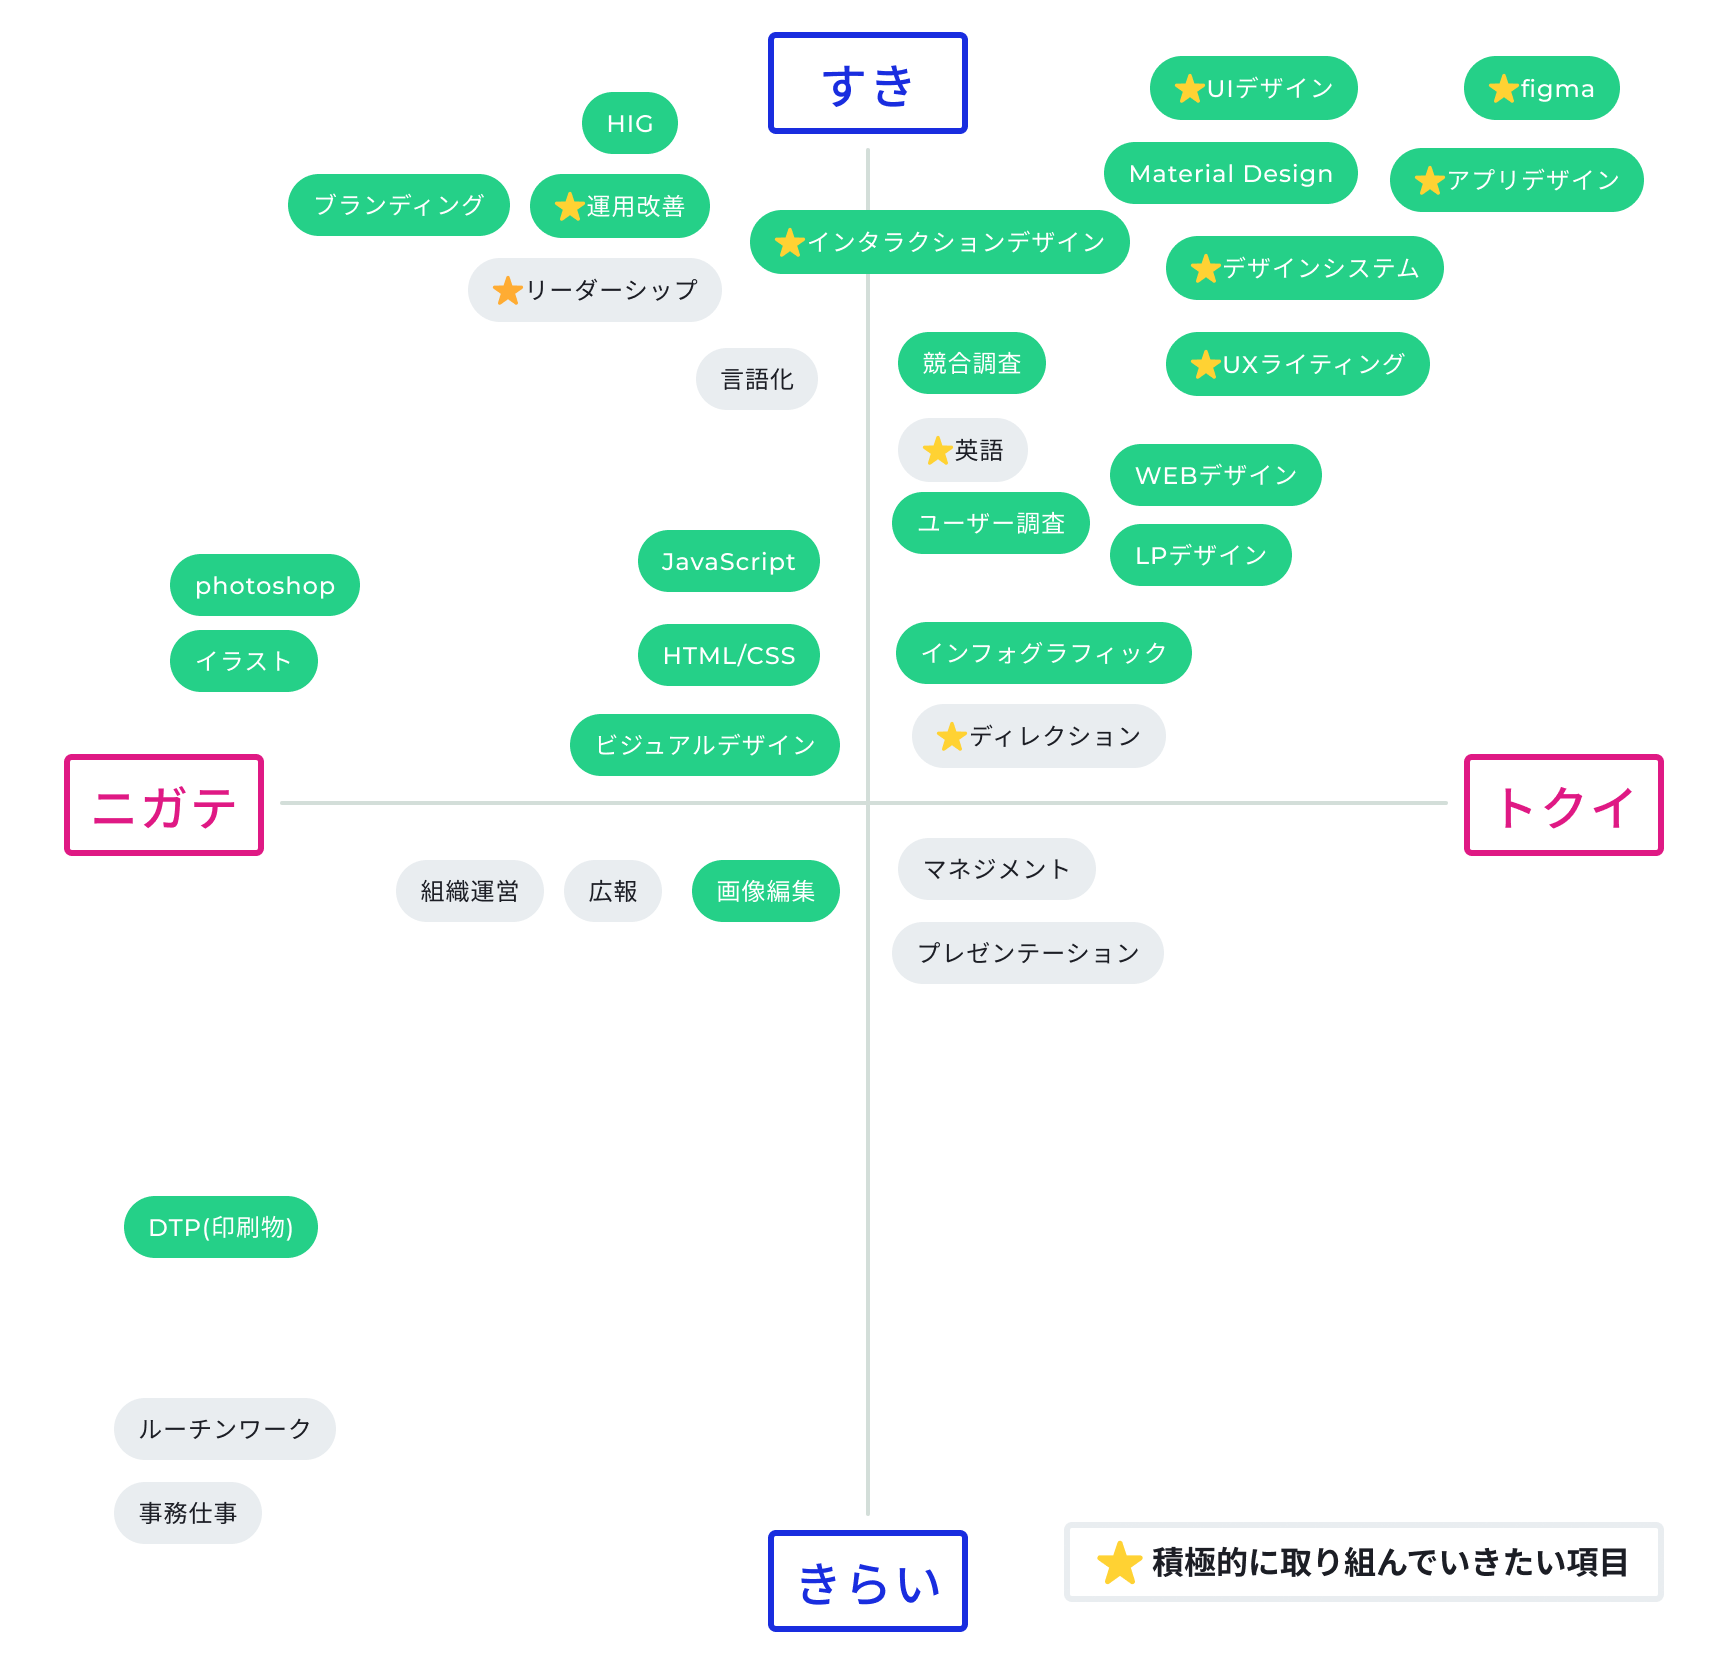
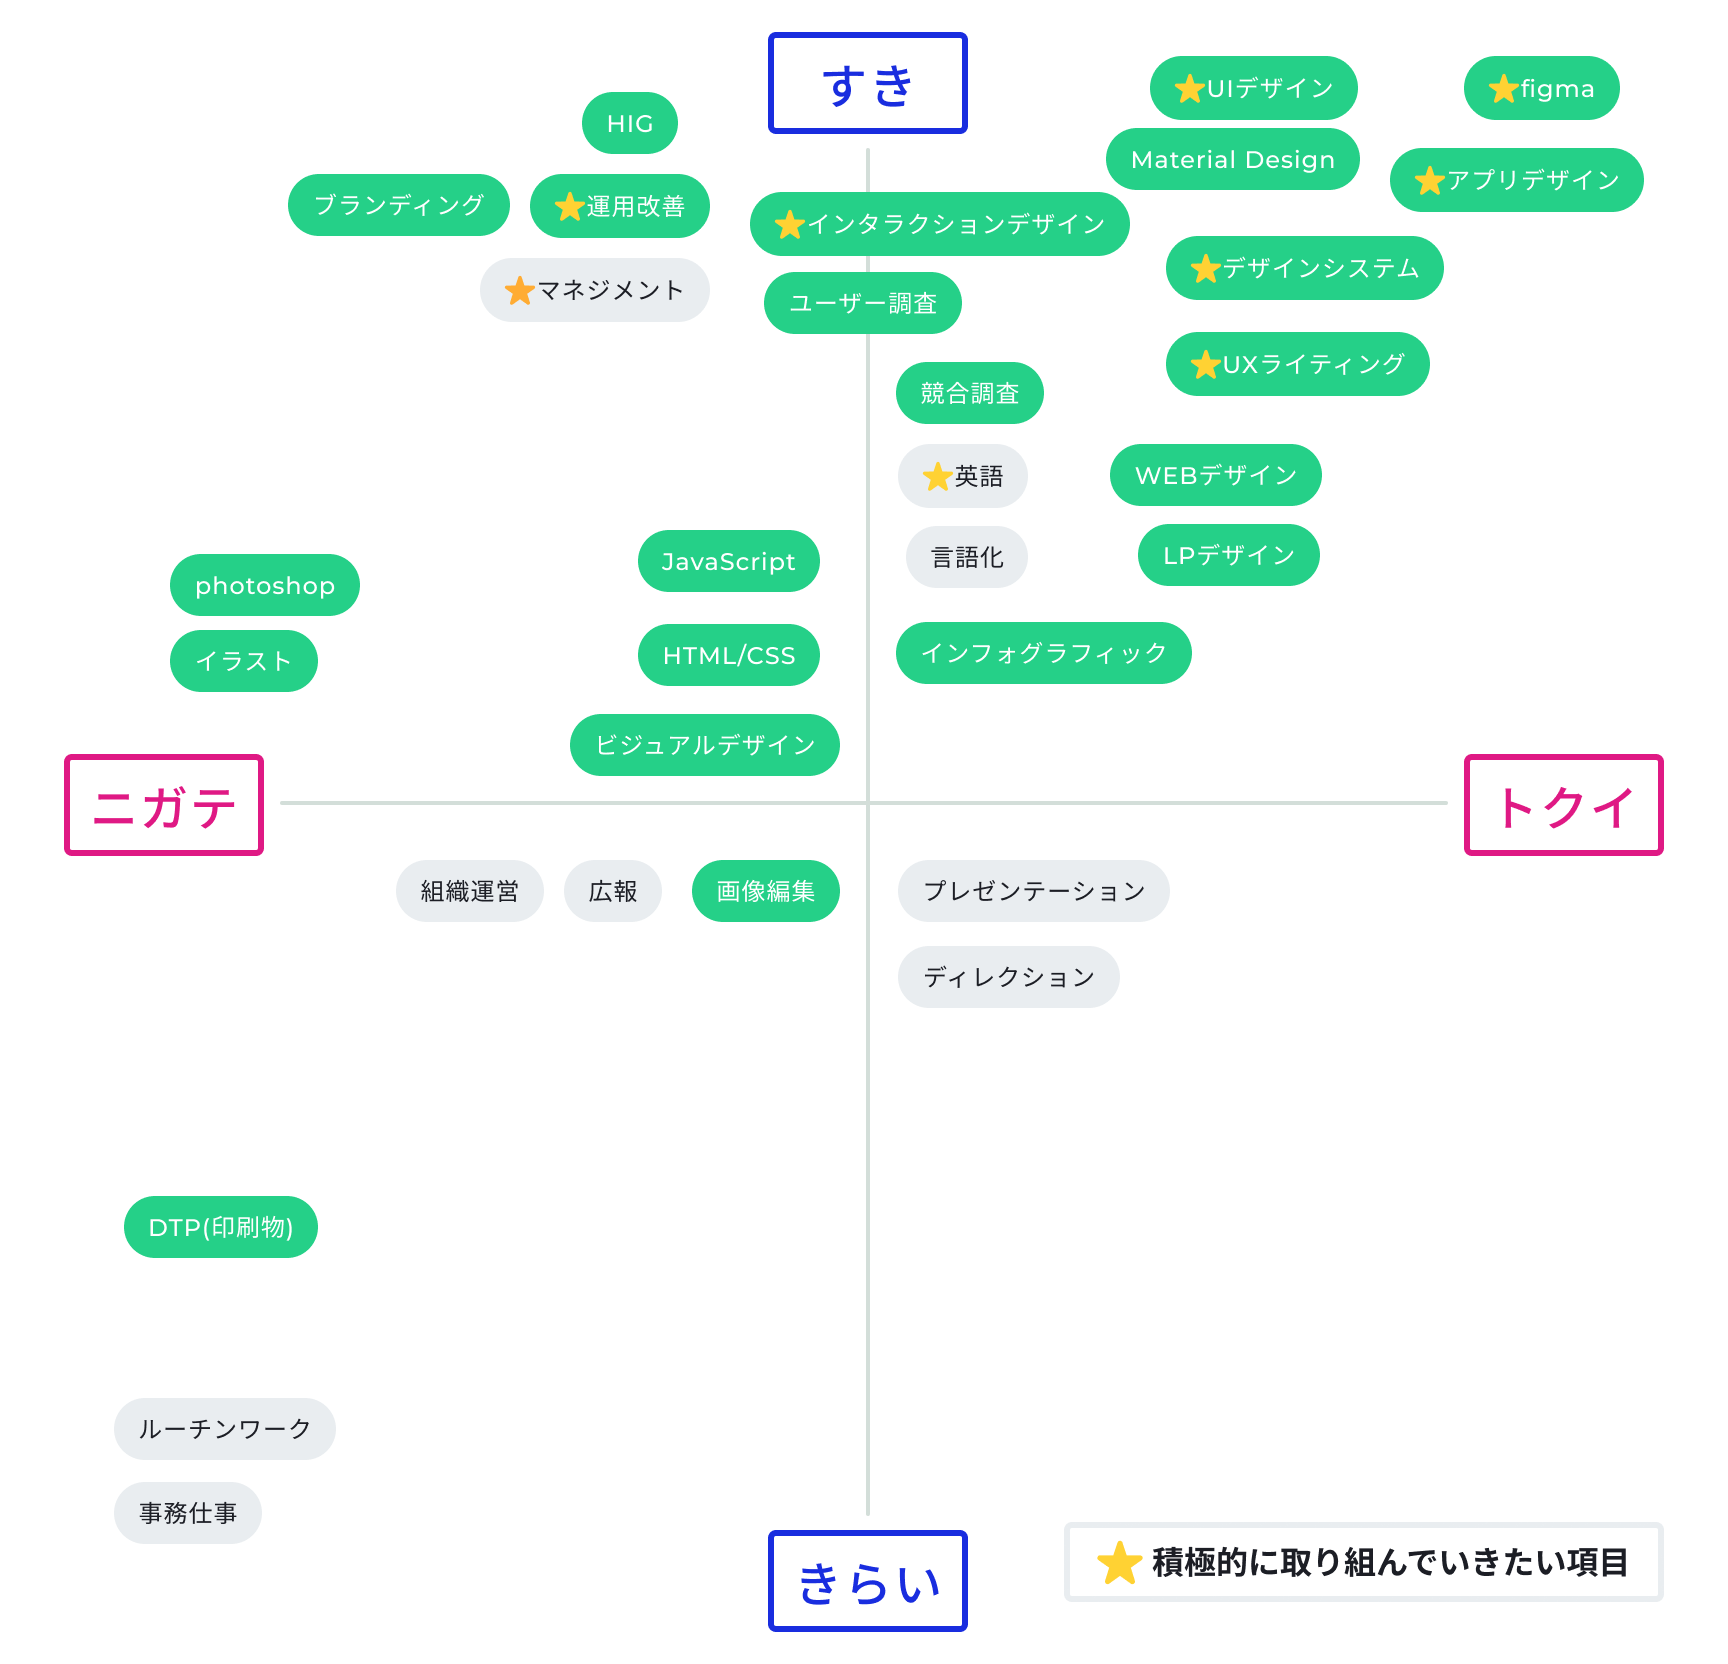
Fex Text

diff --git a/pages/About.tsx b/pages/About.tsx
@@ -50,7 +50,7 @@ export default function AboutPage() {
 
           <Tr>
           <Td fontSize="md" fontWeight="bold">Hobby</Td>
-          <Td fontSize="md">旅行・映画鑑賞</Td>
+          <Td fontSize="md">旅行・映画鑑賞<br />今でも3ヶ月に1回のペースで海外に行くほどの旅行好き</Td>
           </Tr>
           <Tr>
           <Td fontSize="md" fontWeight="bold">E-Mail</Td>
@@ -64,26 +64,46 @@ export default function AboutPage() {
     </Flex>
 
     <Stack lineHeight="180%" w={{base:"90%", md:"100%"}} ml="auto" m={{base:"auto"}}  mt={{base:6,md:8}} width="100%">
+    <Text fontSize={24} fontWeight="bold" mt={6}>Likes</Text>
+    <Text mt={0} w={{base:"100%",md:"100%"}} mr="auto">
+      ・効率的に業務をする、効率的になるように工夫をすることが好きです<br />
+      figmaの機能を使って作業を早める、便利ツールを使用する、同じ洋服を用意するなど、ちょっとせっかちなので仕事でもプライベートでも効率的にできたら良いなと思いながら生活しています。
+      <Text mt={4}>
+      ・年齢や立場に関係なく、リスペクトし合えるようなチームが好きです<br />
+      上の人が言っているからA案で、ということに何度もぶつかってきました。自分の意見を通したいわけではなく、チームで意見を出し合い意思決定できるといいなと思っています！
+      </Text>
+      <Text mt={4}>
+      ・考えることが好きです<br />
+      よく考え事をします。仕事に関すること、紛争・貧困など社会的に大きな問題から、どうやったらカードのポイントがたくさん貯められるかまで様々なことに対して疑問を持ち考え、調べています。
+      </Text>
+    </Text>
+    </Stack>
+
+    <Stack borderTop="1px solid #C6CEDA" lineHeight="180%" w={{base:"90%", md:"100%"}} ml="auto" m={{base:"auto"}}  mt={{base:6,md:8}} width="100%">
     <Text fontSize={24} fontWeight="bold" mt={6}>Career</Text>
     <Text mt={0} w={{base:"100%",md:"100%"}} mr="auto">
-        法学部に在学中に就職に失敗し、ヨーロッパや東南アジアをバックパック。
+        大学卒業後もやりたいことが見つからずヨーロッパや東南アジアをバックパック。
         その後フリーターをしていました。
         世界でも通用するスキルを身につけたいと思い、WEBの世界に入りました。<br />
         約1年間、デザインやWEB制作の勉強をし、小さなデザイン会社でアシスタントとして業務しました。<br />
-        その後は勉強&フリーランスをの期間経て、2022年から正社員として旅行会社のWEB部署でデザイン業務、
-        副業でアプリの制作会社に業務委託として在籍しています。
+        その後は勉強&フリーランスの期間を経て、2022年から正社員として旅行会社のWEB部署でデザイン業務、
+        副業でアプリの制作会社に業務委託として在籍しています。<br />
+        学習初期は1日10時間以上PCと向き合い勉強をしました。仕事をしている今でも5時半に起床し朝の学習・仕事時間を確保しています。
     </Text>
     </Stack>
 
     <Stack lineHeight="180%"  mt={{base:6,md:8}}
       borderTop="1px solid #C6CEDA" width="100%">
     <Text fontSize={24} fontWeight="bold" mt={8}>Work</Text>
+    <Text fontSize={20} mt={3}>やってきたこと</Text>
     <Text>
-        会社では主にアプリ・WEBデザインをしていて、副業はアプリデザインがメインです。<br />
-        個人としてはデザインのお仕事はもちろん、Wordpressdの構築、小規模なWEBサイトのデザイン〜コーディングまでやっていました。
-        近年はデザインのお仕事に注力していて、そのキャリアを歩みたいと考えていますがプログラミングも好きなので趣味で学習しています。
-        このサイトもデザインから自分で構築しました!（Next.js×contentful）<br />
-        プログラミングの経験を活かした仕様の設計や、エンジニアさんと連携して効率的な開発を進めることが得意です。WEBデザインの経験もありますが、仕様設計やデザインの管理が必要となるWEBアプリケーションのデザインを行えることが強みです。
+        ・アプリ・WEBアプリケーションのデザイン<br />
+        ・小規模なWEBサイト・LPのデザイン〜コーディング<br />
+        ・画面設計・仕様設計<br />
+        ・社外・社内のエンジニアさんに実装を依頼、連携して開発を進める<br />
+        ・新人デザイナーさんへのレクチャーやマネジメント
+
+        <Text mt={4}>引き続きWEBアプリケーションや、アプリのデザインを中心とした仕事をしたいと考えています。<br />また、エンジニアさんとの距離が近く、早いサイクルでユーザーに価値を届けられるような環境で働きたいと思っています。</Text>
     </Text>
     </Stack>
 
@@ -93,6 +113,7 @@ export default function AboutPage() {
     <Text fontSize={20} mt={3}>Skill Sets</Text>
     <Text>
     基本的な使用ツールとスキルです。近年はデザインをメインで行なっているので実務でコードはほとんど書いていません。<br />
+    趣味でプログラミングを学習していて、このサイトも自分で構築しました！
     これらに加えNotion・Backlogを用いたタスク管理、GitHubを使ったコード管理などの経験があります。<br />
     フルリモートの会社に属した経験もあるのでリモート下でも問題なくコミュニケーションをとることができます。伝わりやすく、お互いに気持ちよく仕事ができるコミュニケーションを心がけています。
     </Text>
@@ -108,10 +129,10 @@ export default function AboutPage() {
     <Box w={{base:"100%",md:"50%"}}>
     <Text fontSize={20} mt={3}>Skill Maps</Text>
     <Text>
-    アプリのUI/UXデザインが一番得意で好きです。また、コンポーネントの管理方法やデザインのシステム化に興味があり、日頃から情報をキャッチアップしています。
+    コンポーネントの管理方法やデザインのシステム化に興味があり、日頃から情報をキャッチアップしています。
     最近参考にしているのは「デザイン庁 デザインシステム」と「iOS17(Apple Design Resources)」です。<br />
     アプリケーションのデザインには、状態変化や画面遷移などグラフィックやWEBデザインとは少し違う部分があります。それらの部分に対して経験を活かし、エンジニアさんと協力して取り組むとこができます。<br />
-
+    一方で、ユーザーのモデリングに関してより深く経験・勉強する必要があると日々感じています。（このあたりの勉強方法が最近の悩みです）
     </Text>
     </Box>
     <Image className="image" src="/img/Skills/chart.png" w={{base:"100%",md:"50%"}} alt="Skill maps" />
@@ -122,10 +143,10 @@ export default function AboutPage() {
       borderTop="1px solid #C6CEDA" width="100%">
     <Text fontSize={24} fontWeight="bold" mt={8}>Vison</Text>
     <Text>
-      将来的にはマネジメントや、ディレクションの業務に携わりたいと思っています。しかし、まだまだ手を動かしてデザインに携わりたいという気持ちが強いです。
-      最近は新人さんを教えながらリーダーとしてデザイン制作に取り組んでいて、教えることが自分の成長にもつながっていると実感しています。<br />
-      進行係としてのマネジメントではなく、しっかりとデザイナーとしての実績を積み、経験を活かしたマネージャーになることが理想です。<br />
-      また、ユーザーに対する理解が足りないと感じることが多いのでユーザー心理を理解するための要件定義方法やその意義についての知識をもっと増やしたいです。そのため今は心理学や行動経済学の本を読んで勉強中です！
+     最近は新人さんを教えながらリーダーとしてデザイン制作に取り組んでいて、教えることが自分の成長にもつながっていると実感しています。
+     ですのでマネジメントや、ディレクションの業務に携わりたいと思っていますが、まだまだ自分自身で手を動かしてデザインに携わりたい気持ちが強いです。 <br />
+     進行係としてのマネジメントではなく、しっかりとデザイナーとしての実績を積み、経験を活かしたマネージャーになることが理想です。<br />
+     また、ユーザーに対する理解が足りないと感じることが多いのでユーザー心理を理解するための要件定義方法やその意義についての知識をもっと増やしたいです。そのために今は心理学や行動経済学の本を読んで勉強中です！
     </Text>
     </Stack>
 

diff --git a/pages/index.tsx b/pages/index.tsx
@@ -56,7 +56,7 @@ export default function Home({allPosts }) {
       <Text size="md" lineHeight="7" mt={{base:0,md:2}} >
       ご訪問いただきありがとうございます！
       NAO OSAWAのポートフォリオサイト兼ブログです。
-      今までの経歴やスキルはこちらのページからご覧いただけます。
+      今までの経歴やスキル、考え方などはこちらのページからご覧いただけます。
       </Text>
       <ButtonPrime href="/About" bgColor="#25D088" target=""  wide="fit-content" color="#ffffff" icon={''}>Read More</ButtonPrime>
       </Flex>
